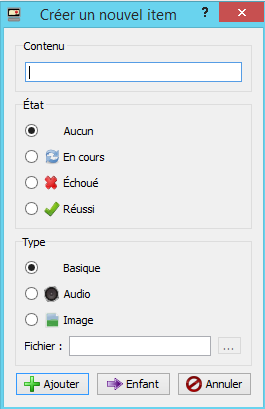
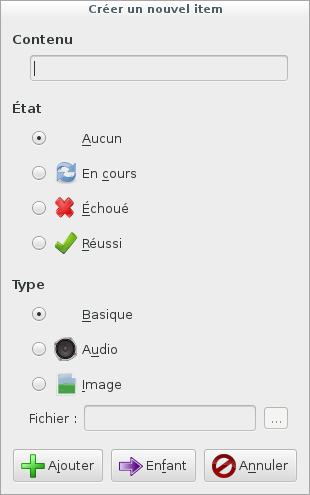
New captures for the french user guide

Changed region(s): [[0.0, 0.0, 1.0, 1.0], [0.8453, 0.8215, 0.8755, 0.8802], [0.9057, 0.8215, 0.9358, 0.8509]]

diff --git a/doc/userguide/fr/userguide.tex b/doc/userguide/fr/userguide.tex
@@ -147,7 +147,7 @@ Voici la liste des modules présents dans cette version~:
 \end{description}
 Tout ces modules sont rassemblés dans l'interface par défaut du logiciel, comme on peut le voir sur la figure~\ref{fig:interface}, mais peuvent également être réorganisés grâce au sous-menu \interfaceitem{Interface} du menu \interfaceitem{Affichage} décrit précédemment dans la section~\ref{sec:affich}.
 \begin{figure}[ht]
-    \centerline{\includegraphics[width=0.9\textwidth]{scenario_complet}}
+    \centerline{\includegraphics[width=\textwidth]{scenario_complet}}
     \caption{Fenêtre principale du logiciel avec une partie en cours}
     \label{fig:interface}
 \end{figure}
@@ -171,7 +171,7 @@ Veuillez noter que pour les fichiers audio, l'action \interfaceitem{Jouer} n'app
 
 L'action \interfaceitem{Ajouter} nous permet d'accéder à la fenêtre de création d'item (figure~\ref{fig:ajout}).
 \begin{figure}[ht]
-    \centerline{\includegraphics[width=0.5\textwidth]{add_item}}
+    \centerline{\includegraphics[width=0.4\textwidth]{add_item}}
     \caption{Fenêtre de création d'item}
     \label{fig:ajout}
 \end{figure}
@@ -198,7 +198,7 @@ L'arbre d'intrigue est dans la majorité des cas le cœur de \GMA.
 C'est en effet à cet endroit que vous pouvez entrer le plan détaillé et ordonné du scénario, de manière à ne jamais être perdu entre deux scènes ni oublier un élément.
 La figure~\ref{arbre_scenar} donne un aperçu de ce qu'il est possible de faire avec ce module.
 \begin{figure}[ht]
-    \centerline{\includegraphics[width=0.6\textwidth]{scenario_type}}
+    \centerline{\includegraphics[width=0.7\textwidth]{scenario_type}}
     \caption{Plan schématique d'un scénario}
     \label{arbre_scenar}
 \end{figure}
@@ -283,7 +283,7 @@ Vous aurez ainsi tout ce qu'il vous faut si vous avez oublié vos dés ou si vou
 Pour l'utiliser, il suffit de sélectionner l'option correspondante du menu \interfaceitem{Outils}.
 Une fenêtre similaire à celle représentée sur la figure~\ref{simulateur_des} s'ouvre alors.
 \begin{figure}[ht]
-    \centerline{\includegraphics[width=0.6\textwidth]{simulateur_de_des}}
+    \centerline{\includegraphics[width=0.4\textwidth]{simulateur_de_des}}
     \caption{Simulateur de dés}
     \label{simulateur_des}
 \end{figure}
